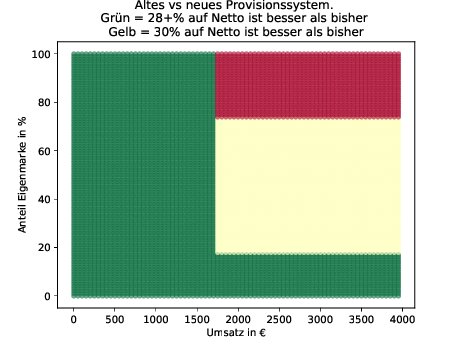
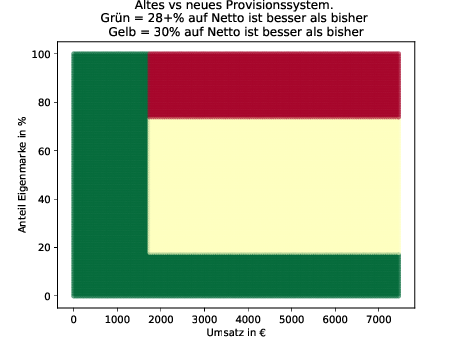
tuning value ranges

diff --git a/bars.py b/bars.py
@@ -84,13 +84,13 @@ plot.legend.orientation = 'horizontal'
 plot.legend.location='top_center'
 
 #set initial data
-UMSATZ=2500
+UMSATZ=6000
 ANTEIL_HAUSMARKE=int(100*2/3)
 set_data(UMSATZ, ANTEIL_HAUSMARKE)
 
 #add gui elements and callbacks
 anteil_slider = Slider(start=0, end=100, step=1, value=ANTEIL_HAUSMARKE, title='Anteil Eigenmarkeprodukte in %')
-umsatz_slider = Slider(start=0, end=4000, step=1, value=UMSATZ, title='Umsatz pro Monat in € (Brutto)')
+umsatz_slider = Slider(start=0, end=7500, step=1, value=UMSATZ, title='Umsatz pro Monat in € (Brutto)')
 anteil_textinput = TextInput(value=str(ANTEIL_HAUSMARKE))
 umsatz_textinput = TextInput(value=str(UMSATZ))
 bonus_label = Button(label='SET ME')
@@ -173,7 +173,7 @@ if __name__ == '__main__':
     plt.ylabel('Anteil Eigenmarke in %')
 
 
-    for umsatz in tqdm.tqdm(range(1,4001,50)):
+    for umsatz in tqdm.tqdm(range(1,7501,50)):
         for anteil in range(0,101, 1):
             set_data(umsatz, anteil)
             a.append(anteil)
